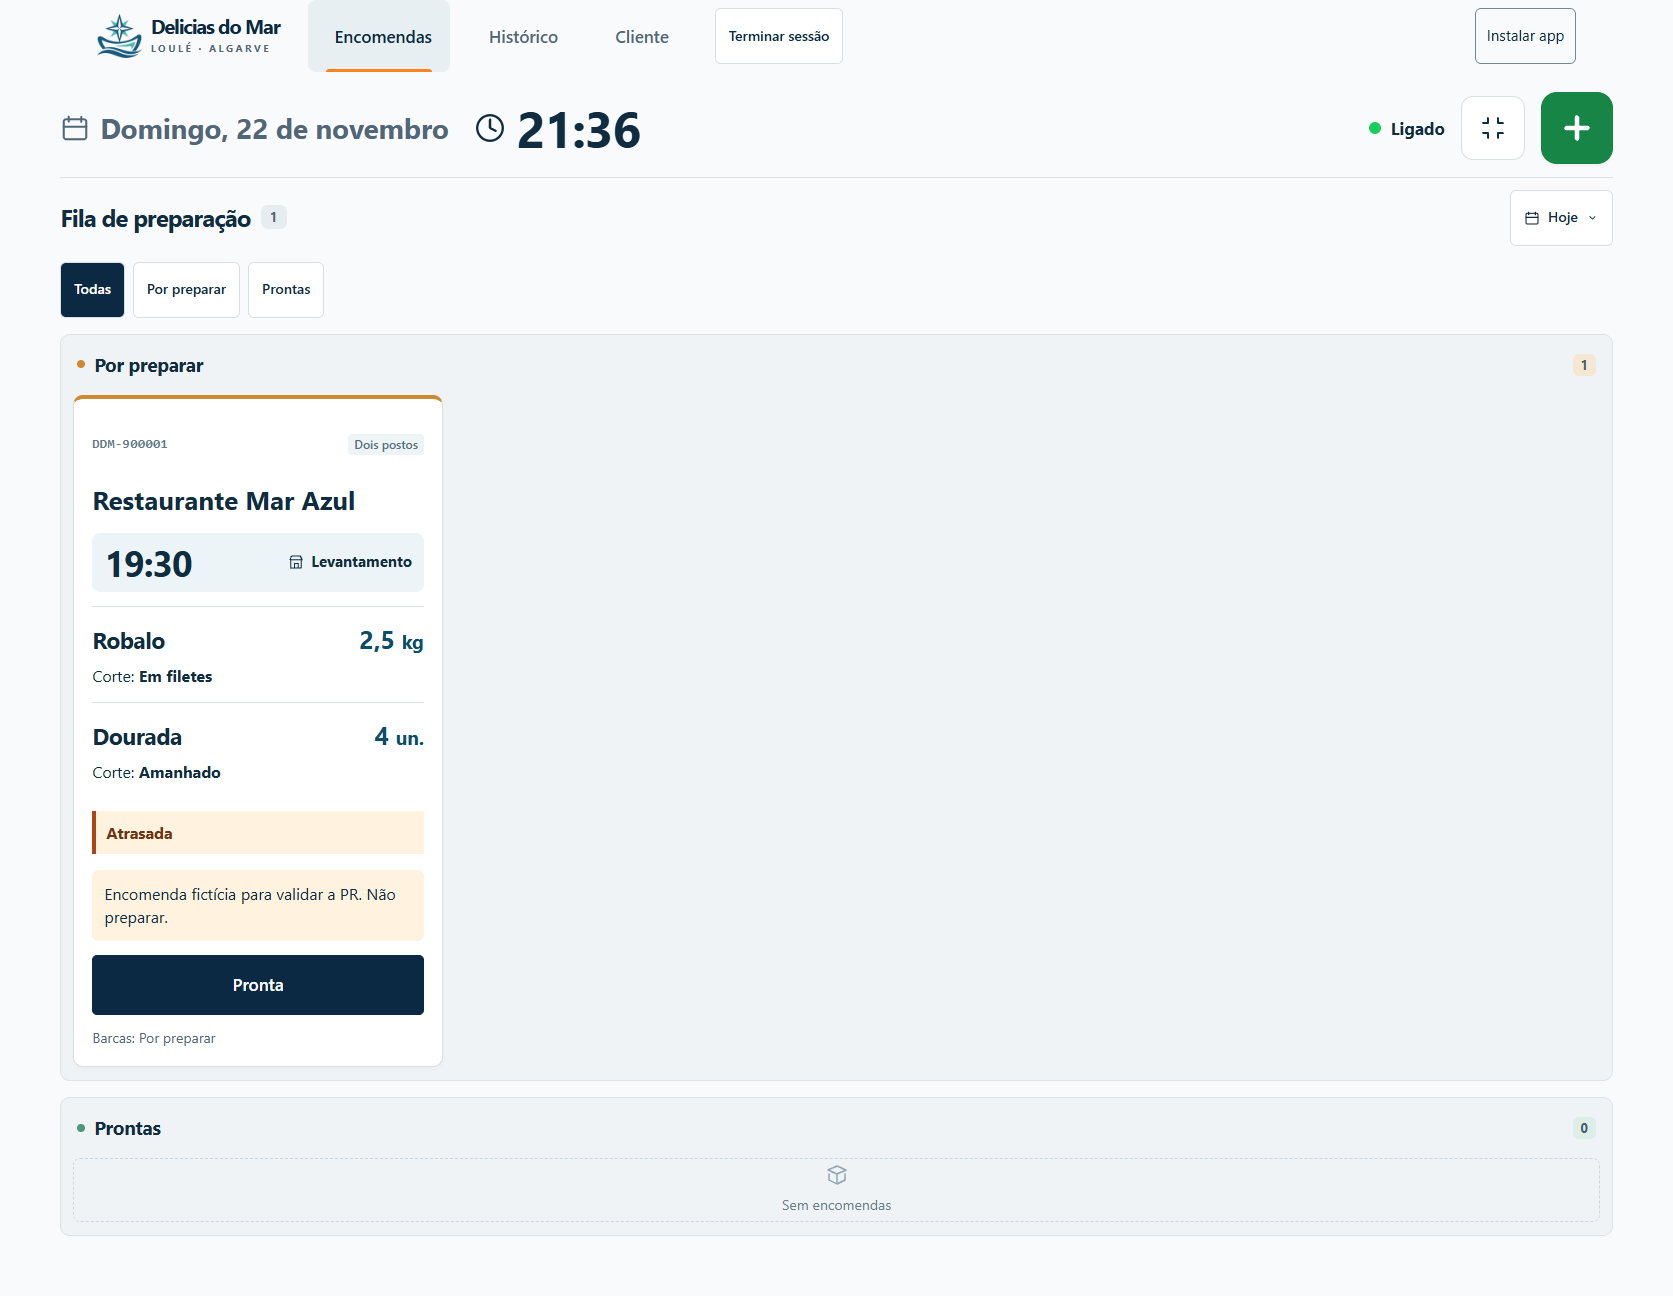
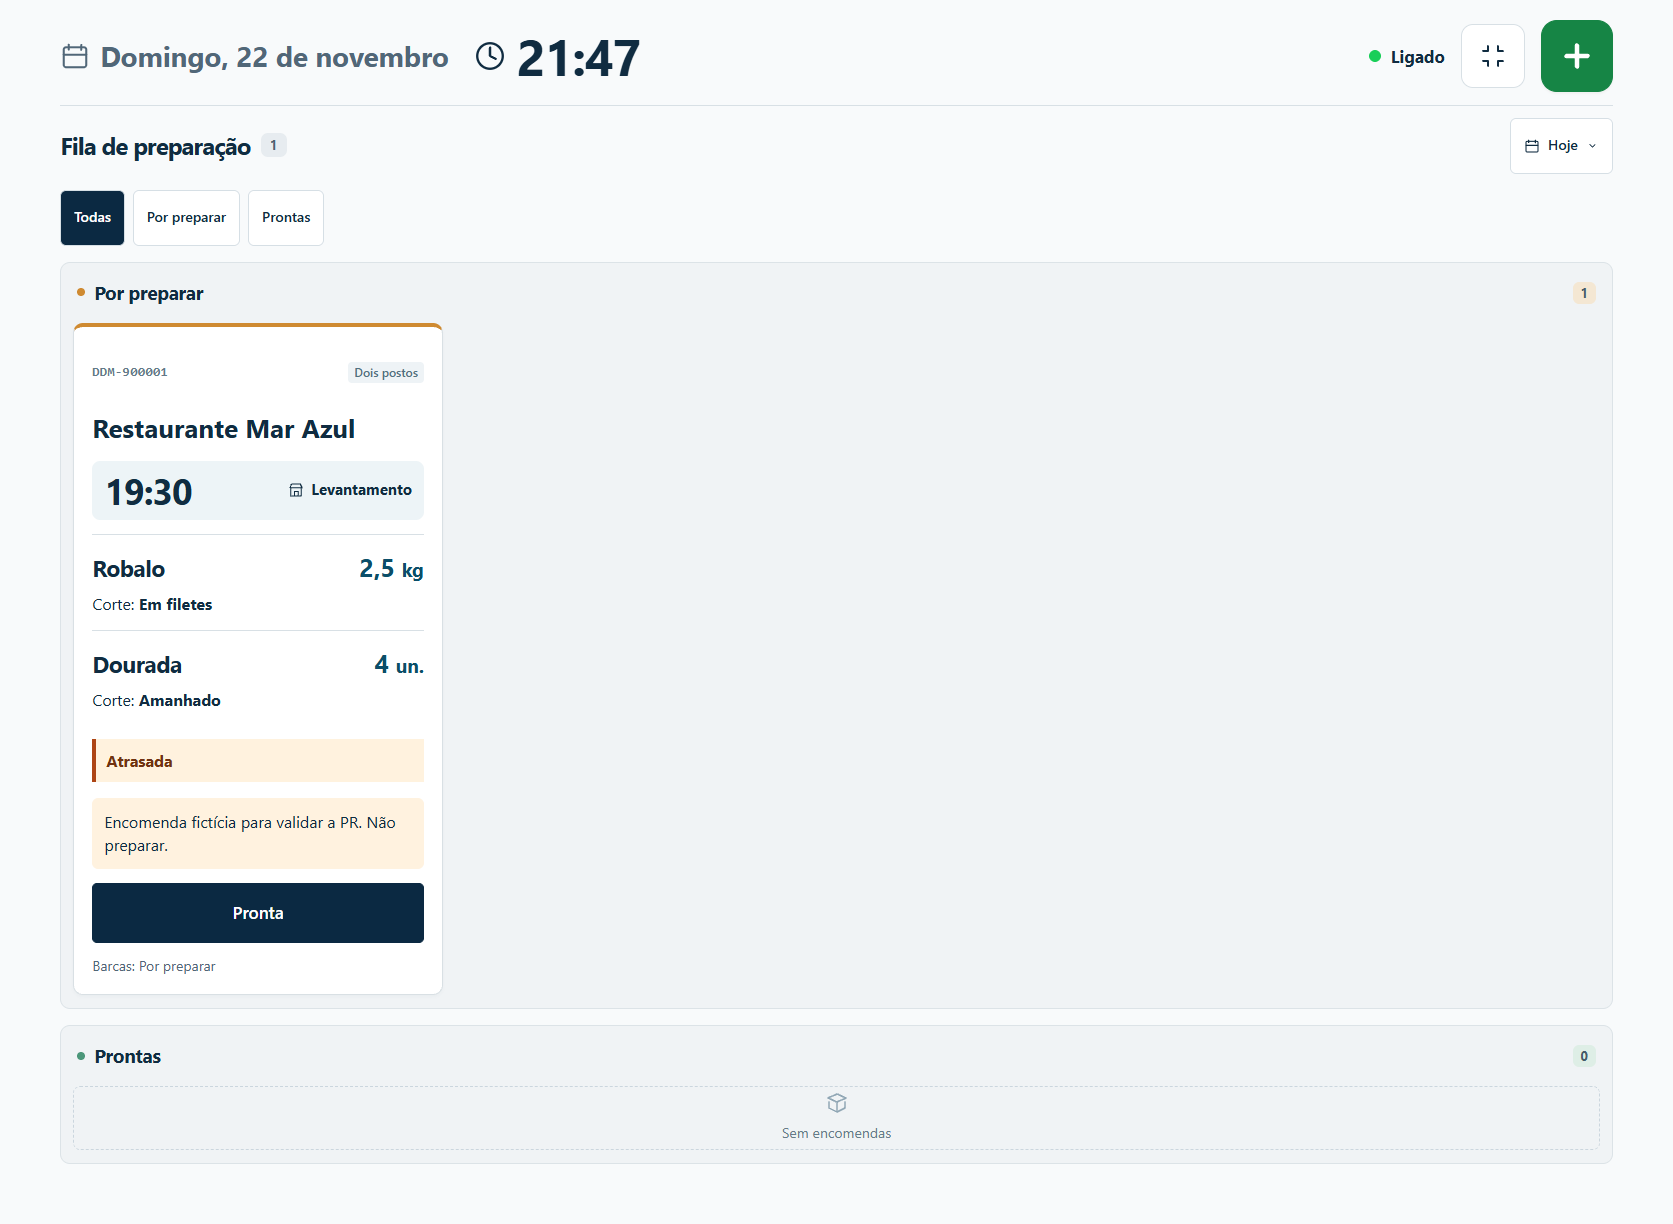
Ocultar a barra de navegação no modo posto

diff --git a/src/estilo.css b/src/estilo.css
@@ -58,7 +58,7 @@ dialog{max-width:min(630px,calc(100% - 24px));width:630px;padding:0;max-height:9
 @media(max-width:690px){.ticket-deadline>strong{font-size:38px}.pagehead h1{font-size:30px}.head-actions{width:100%;margin:0;flex-wrap:wrap;justify-content:space-between}.focus .stations{max-width:none}.tools{flex-wrap:wrap}.searchbox{flex-basis:100%}.write-status{font-size:13px}.global{flex-wrap:wrap}.task-btns .btn{width:100%}}
 
 /* Barra de trabalho: posto, data, relógio e ações sempre à mão. */
-.top,.focus .top{display:block;background:var(--bg);color:var(--navy)}
+.top{display:block;background:var(--bg);color:var(--navy)}
 .top-in{min-height:72px;gap:28px}.top .brand{font-size:20px}.brand img{filter:none}.brand small{color:var(--muted)}
 .top nav{gap:12px}.top nav a{min-height:60px;padding:12px 18px;color:var(--muted);font-size:17px;border-radius:8px;gap:9px}.top nav a.active,.top nav a:hover{color:var(--navy);background:#e8eff3}.top nav a.active:after{height:3px;left:18px;right:18px}
 #installApp{color:var(--navy);margin:0 0 0 auto;min-height:56px;font-size:15px;white-space:nowrap}
